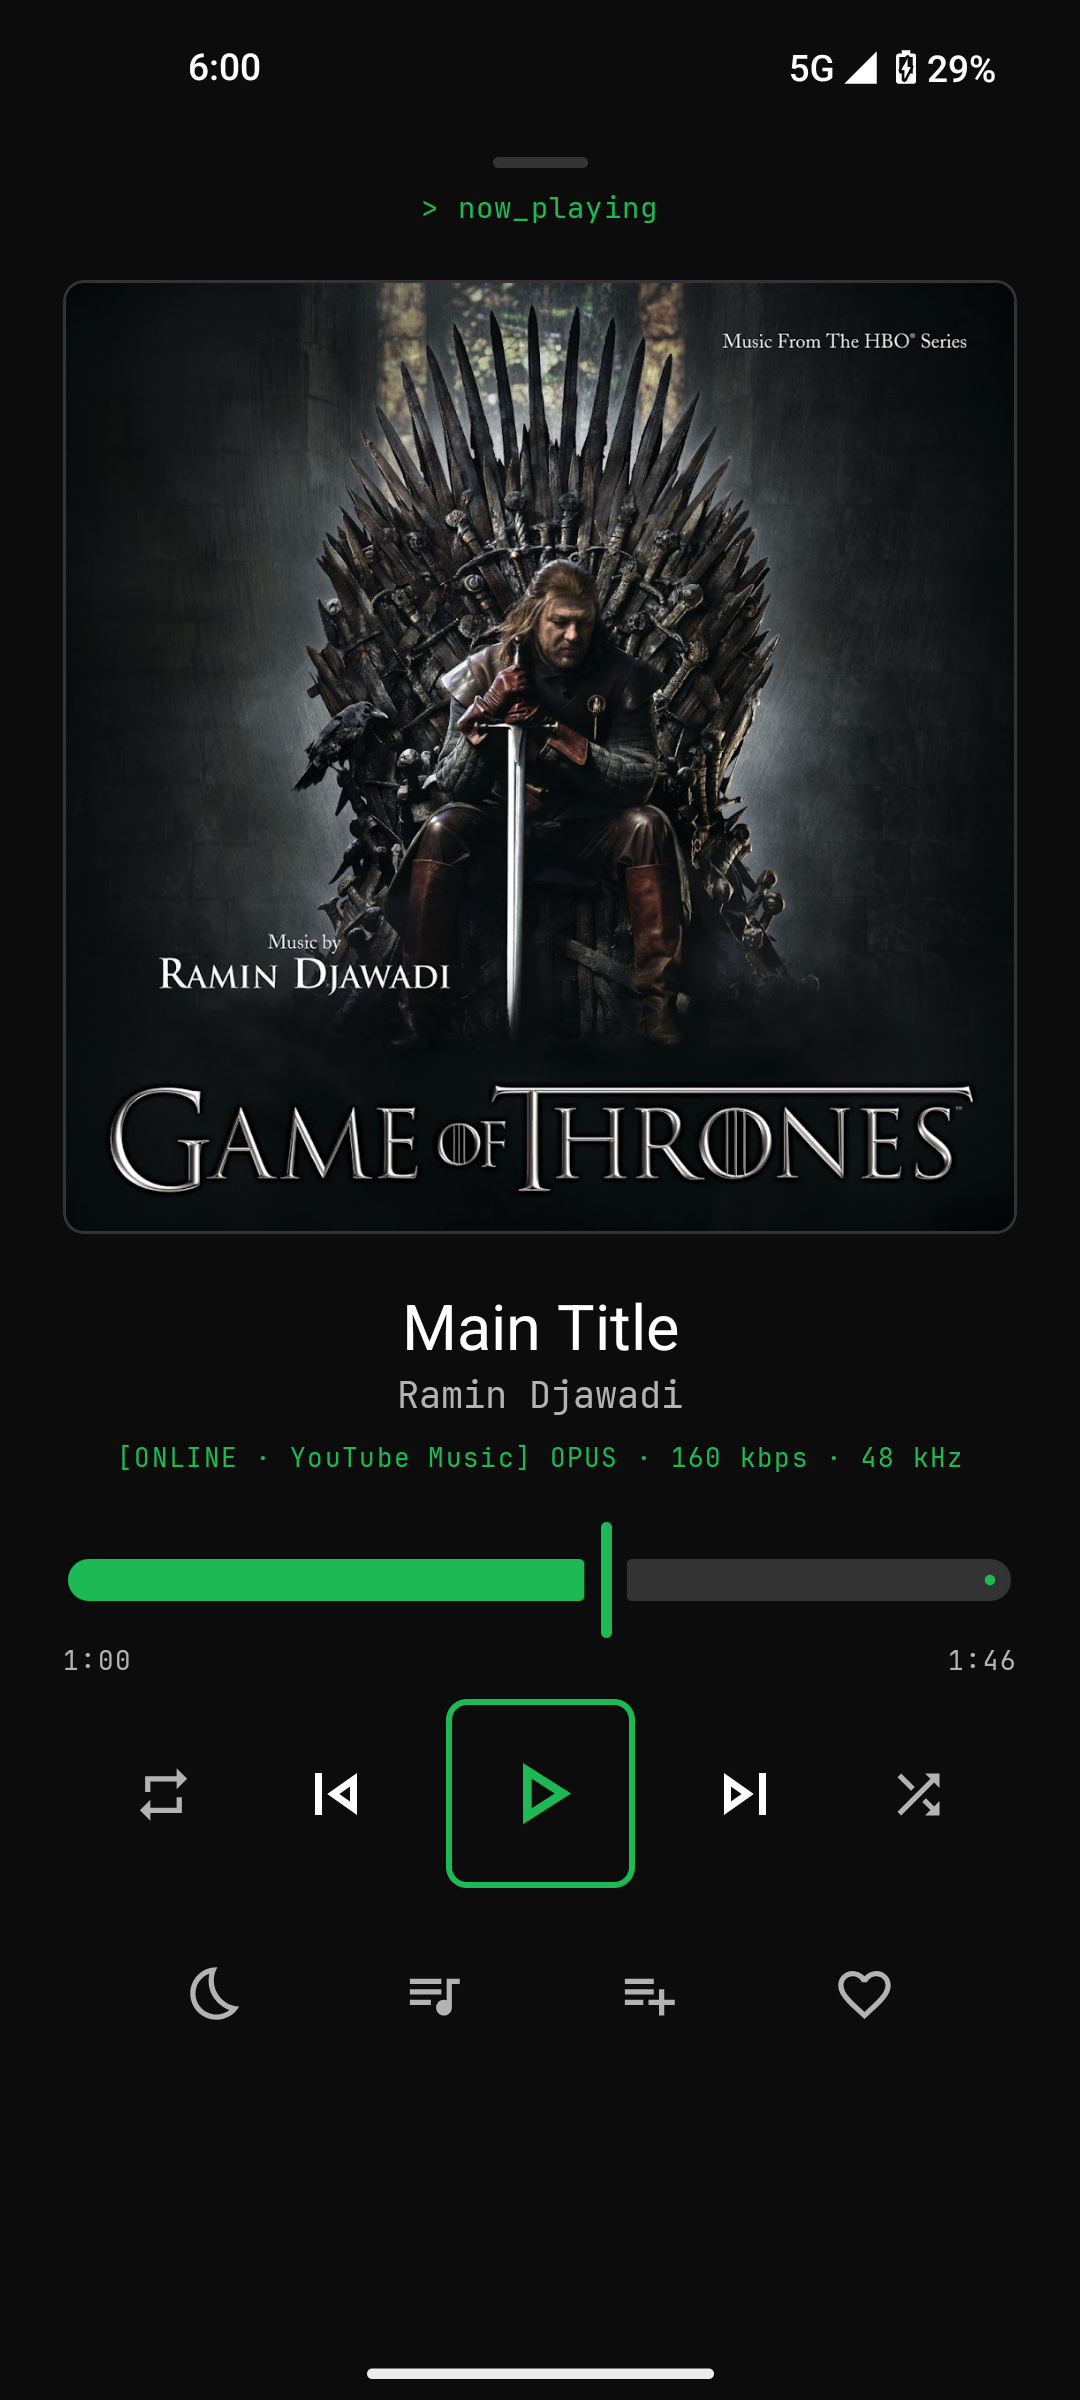
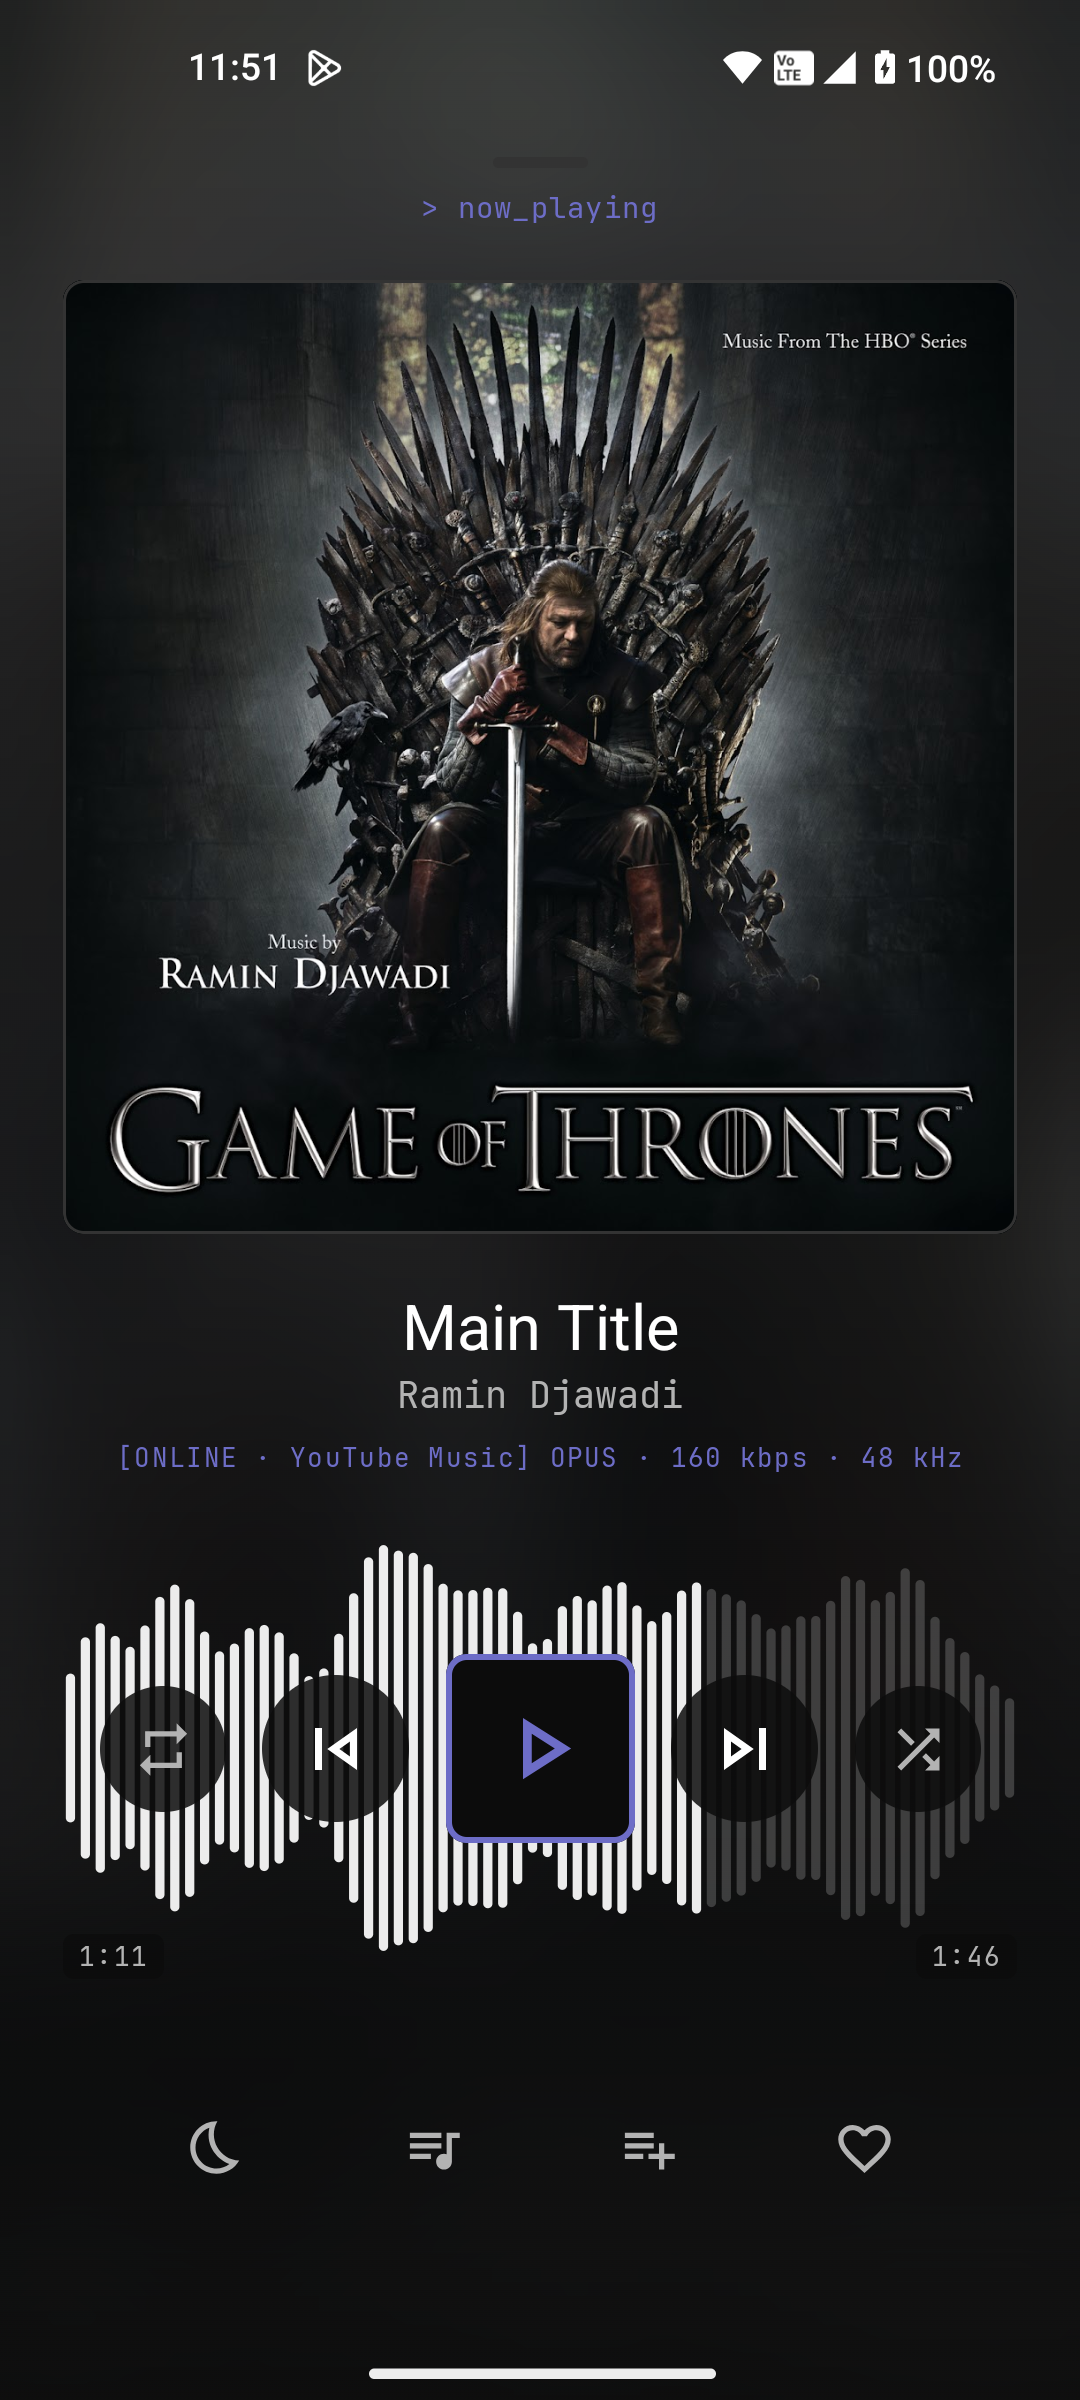
docs: new Now Playing screenshots and v2.2.0 release notes

diff --git a/docs/RELEASE_NOTES.md b/docs/RELEASE_NOTES.md
@@ -1,54 +1,31 @@
-# CLIBeats v2.1.0 — Release Notes
+# CLIBeats v2.2.0 — Release Notes
 
-**Build target:** Android 8.0+ (API 26+) · **Download:** `CLIBeats-v2.1.0.apk` (verify with `SHA256SUMS.txt`)
+**Build target:** Android 8.0+ (API 26+) · **Download:** `CLIBeats-v2.2.0.apk` (verify with `SHA256SUMS.txt`)
 
-v2.1.0 is the first public release of the v2 line. It adds in-app updates and ships with a permanent signing
-key, so from here on every update installs from inside the app. It also includes the full v2.0 overhaul of
-playback, the local library and the interface.
+## Now Playing
 
-## New in 2.1.0
+- **Waveform seek** behind the controls: drag across the bars to scrub while the song keeps playing. Its current
+  position stays marked; drag back near it and the cursor **snaps to "now"** (with a tick), and letting go there
+  doesn't seek. Letting go anywhere else jumps there.
+- **Frosted-glass background** made from the album art, with the cover's colour on the controls.
+- **Previous** always plays the song that played before — local or online, from any queue — also from the
+  notification, lock screen and headphones.
+- Notification artwork no longer goes blank: cached covers show instantly, then the high-res one.
 
-- **In-app updates** — when a new version is out, a pop-up offers **DOWNLOAD** or **LATER** (hides it for a day).
-  The APK is saved to Downloads, checked against the release's SHA-256 checksum, and **INSTALL** hands it to
-  Android's installer. The previous update APK is cleaned up automatically.
-- **Settings → Updates** — auto-check **Daily** (default), **Weekly** or **Off**, plus **CHECK NOW**, download,
-  install and a link to the release notes. Checks are light: at most once per interval, silent when offline.
-- **Permanent release key** — releases are signed with the CLIBeats key
[1 lines of base64/hex data omitted]
+## Everywhere else
 
-## Included from 2.0
-
-- **Reliable queue playback** — every queued song plays when it's reached (skip, auto-advance, repeat).
-  Streams resolve lazily, so playback starts after ~0.5 s and expired YouTube links refresh themselves.
-- **Your own music** — add one or more folders; FLAC (16/24-bit), WAV, MP3, M4A/AAC, OGG/Opus, ALAC and
-  AIFF with tags and cover art. M3U / M3U8 / PLS playlists show up as read-only local playlists.
-- **Full-screen Now Playing** — high-res artwork, quality line (codec · bitrate · sample rate · bit depth),
-  repeat, shuffle, sleep timer, queue, add to playlist and favourite.
-- **Favourites & playlists** — playlist grid with ♥ Favorites and Most Played; export / import includes
-  Favorites.
-- **Gestures** — swipe between tabs; swipe a song right to queue it, left to favourite it; long-press to add
-  it to a playlist.
-- **System integration** — background playback, notification and lock-screen controls with high-res art,
-  and a working **resume card** after the app is closed (same song, same position).
-- **Themes** — Dark, AMOLED and Light with six accent colours; first-run setup on new installs.
-- **Storage** — separate song and artwork caches, each with its own limit and clear button.
-- **New app icon** — terminal window with a prompt and spectrum bars, plus a themed (monochrome) icon.
-
-### Fixes
-
-- Songs couldn't be added to playlists; queued songs didn't play; local results were slow.
-- A song that fails to play is skipped with a short notice instead of stalling the queue.
-- The "end of track" sleep timer works with repeat-one.
-- Changing the artwork cache limit applies immediately.
-- Search results follow your region (country and language).
-
-## Under the hood
-
-- Media3 `MediaLibraryService` with playback resumption; Room upserts that no longer wipe playlists.
-- NewPipeExtractor v0.27.1; Coil image pipeline tuned for instant thumbnails.
-- Update checks use the GitHub Releases API with ETags; downloads use Android's DownloadManager.
-- 215 unit tests, ktlint, detekt and Android Lint in CI.
+- **New round logo** that fits every launcher icon shape.
+- **Tab re-taps:** Home and Search switch Online ↔ Local, double-tap Search opens the keyboard, Library switches
+  Online ↔ Offline. Online / Local boxes are equal width.
+- **Queue:** hold any song (or drag its ≡ handle) to reorder.
+- **Search** lists the songs you picked before when the box is empty.
+- **History:** Home, Library and Most Played each clear on their own; Most Played and Favorites get ✕ per song
+  and a confirmed `[ CLEAR ALL ]`; Home shows the last 5.
+- **Playlists:** custom covers (from your phone or a URL).
+- **Settings:** track count always shown, data saver works, credits for both developers.
+- Auto-queue related songs is off by default; setup defaults to Online; "Music & Audio" app category;
+  `[ LOCAL ]` / `[ OFFLINE ]` status on Home.
 
 ## Updates
 
-From this version on, new releases update from inside the app (Settings → Updates).
+Installed v2.1.0? This update appears in the app (Settings → Updates).

diff --git a/README.md b/README.md
@@ -7,7 +7,7 @@
 **A free, open-source Android music player with a terminal-inspired interface.**<br>
 Stream online or play your own lossless library — no ads, no accounts, no tracking.
 
-[![Version](https://img.shields.io/badge/version-2.1.0-1DB954)](#)
+[![Version](https://img.shields.io/badge/version-2.2.0-1DB954)](#)
 [![Android](https://img.shields.io/badge/Android-8.0%2B-3DDC84?logo=android&logoColor=white)](https://developer.android.com/)
 [![Kotlin](https://img.shields.io/badge/Kotlin-2.x-7F52FF?logo=kotlin&logoColor=white)](https://kotlinlang.org/)
 [![Jetpack Compose](https://img.shields.io/badge/Jetpack%20Compose-UI-4285F4?logo=jetpackcompose&logoColor=white)](https://developer.android.com/compose)
@@ -97,7 +97,8 @@ Stream online or play your own lossless library — no ads, no accounts, no trac
 - High-res cover art: the low-res thumbnail shows instantly and the full-quality cover fades in.
 - Quality line: source + codec + bitrate + sample rate (+ bit depth for lossless), e.g.
   `[LOCAL] FLAC · 1857 kbps · 48 kHz · 24-bit` or `[ONLINE · YouTube Music] OPUS · 160 kbps · 48 kHz`.
-- **Matches the album art:** the background takes a deep tint of the cover and the controls its vivid colour, fading between songs.
+- **Matches the album art:** a frosted-glass background made from the cover (blurred, under a readable wash; a tinted
+  gradient on Android 11 and older), with the cover's vivid colour on the controls, fading between songs.
 - **Waveform seek:** drag across the bars behind the controls to scrub. Playback keeps going, its position stays marked,
   and dragging back near it snaps onto it (letting go there doesn't seek).
 - Repeat · previous · play/pause · next · shuffle · sleep timer · queue · add to playlist · ♥.
@@ -212,15 +213,15 @@ Screenshot tests: `.\gradlew.bat verifyPaparazziDebug` (needs `ANDROID_HOME` set
 
 Download the latest APK from [Releases](https://github.com/Omprakash-p06/clibeats/releases): each release has
 `CLIBeats-vX.Y.Z.apk` and a `SHA256SUMS.txt` to verify it (`sha256sum -c SHA256SUMS.txt`, or
-`Get-FileHash CLIBeats-v2.1.0.apk` on Windows). From v2.1.0 the app updates itself (Settings → Updates).
+`Get-FileHash CLIBeats-v2.2.0.apk` on Windows). From v2.1.0 the app updates itself (Settings → Updates).
 Every release is signed with the CLIBeats key, certificate SHA-256
[1 lines of base64/hex data omitted]
 
-Pushing a tag like `v2.1.0` runs `.github/workflows/release.yml`: tests, a signed release APK and a GitHub
+Pushing a tag like `v2.2.0` runs `.github/workflows/release.yml`: tests, a signed release APK and a GitHub
 Release with [release notes](docs/RELEASE_NOTES.md). Signing uses the repository secrets `KEYSTORE_BASE64`,
 `KEYSTORE_PASSWORD`, `KEY_ALIAS` and `KEY_PASSWORD`; the workflow stops if they're missing, so a
 debug-signed APK (which couldn't update existing installs) is never published. A release published by hand is
-left untouched. The version comes from the tag (`2.1.0` → versionCode `20100`); local builds default to 2.1.0.
+left untouched. The version comes from the tag (`2.2.0` → versionCode `20200`); local builds default to 2.2.0.
 
 ---
 

diff --git a/docs/USER_GUIDE.md b/docs/USER_GUIDE.md
@@ -30,7 +30,7 @@ Swipe left / right anywhere outside a song row to move between tabs.
 ## Player
 
 - **Mini player** — tap the song to open Now Playing.
-- **Now Playing** — colours follow the album art. Drag across the waveform behind the controls to scrub: playback
+- **Now Playing** — a frosted-glass background made from the album art, with matching control colours. Drag across the waveform behind the controls to scrub: playback
   keeps going, and dragging back near the current time snaps onto it. Repeat (off → all → one), previous, play/pause,
   next, shuffle, sleep timer,
   queue, add to playlist, ♥. Drag the artwork down to close.
